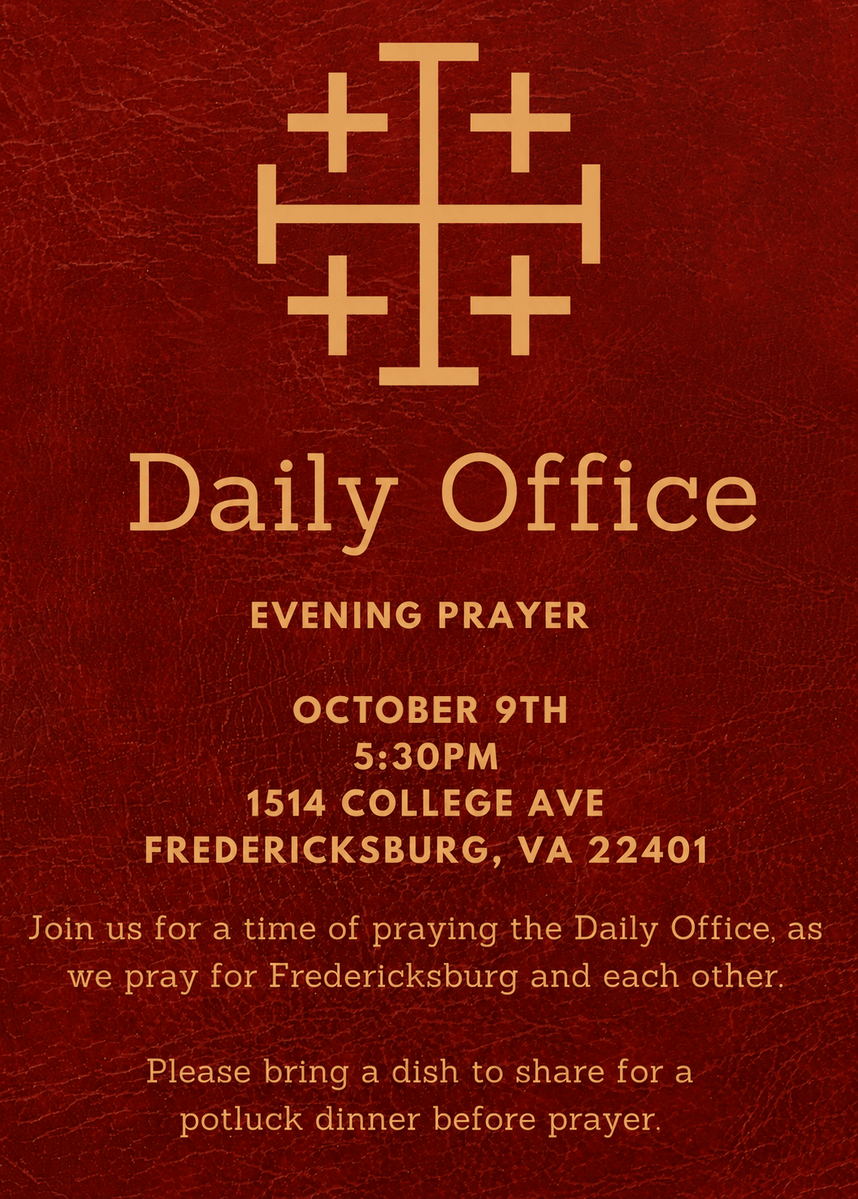
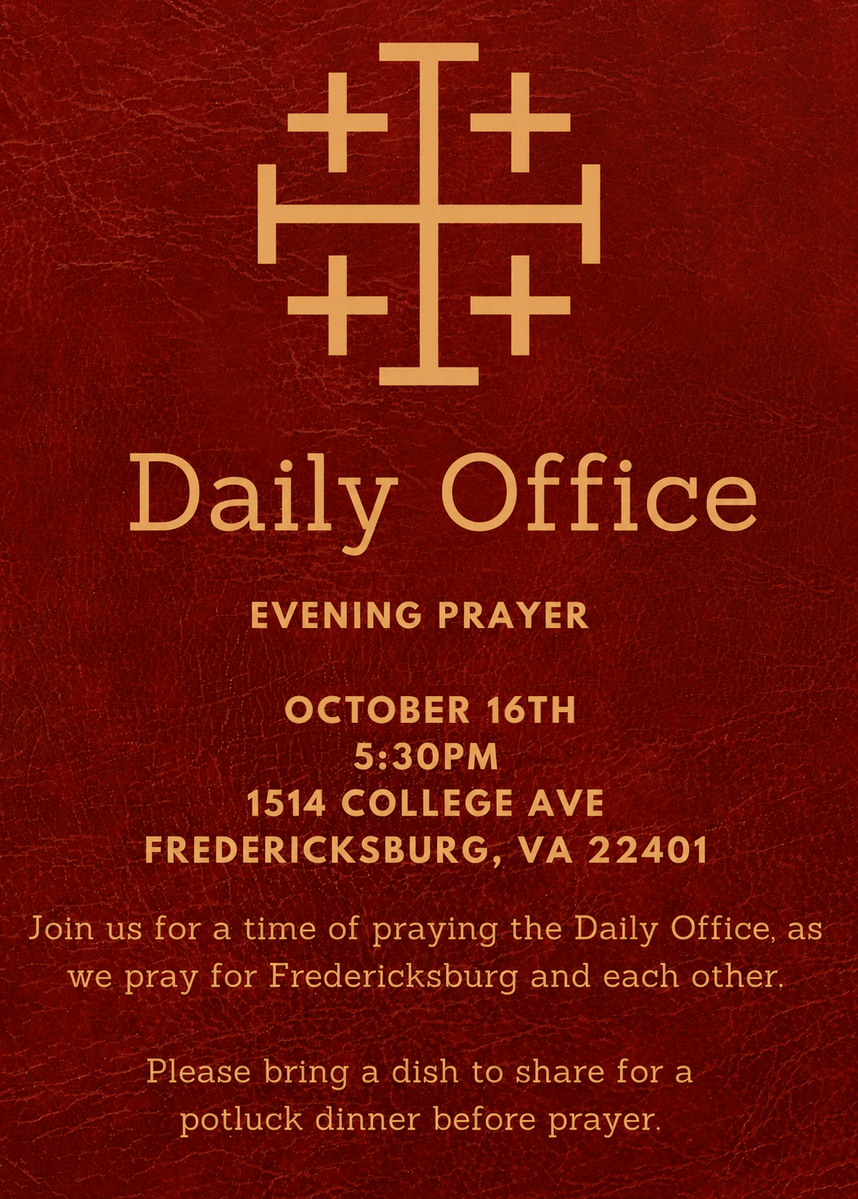
Updated for 10/16 Evening Prayer
Claude-Session: https://claude.ai/code/session_01KxtUxbkiW6WMthwFHsM1s8

Changed region(s): [[0.3333, 0.5555, 0.6667, 0.6172]]

diff --git a/index.html b/index.html
@@ -172,7 +172,7 @@
       <div class="details-card">
         <!-- ↓↓↓ EDIT THESE FOUR LINES FOR EACH NEW EVENT ↓↓↓ -->
         <p><span class="label">What:</span> Daily Office: Evening Prayer</p>
-        <p><span class="label">Date:</span> October 9th, 2026</p>
+        <p><span class="label">Date:</span> October 16th, 2026</p>
         <p><span class="label">Time:</span> 5:30 PM</p>
         <p><span class="label">Location:</span> 1514 College Avenue, Fredericksburg, VA 22401</p>
 
